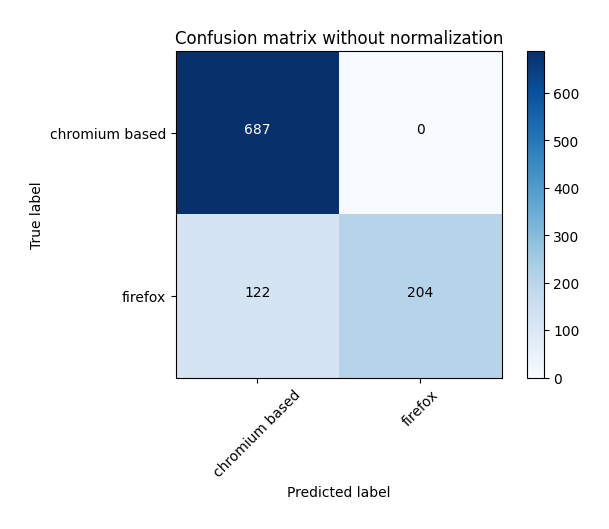
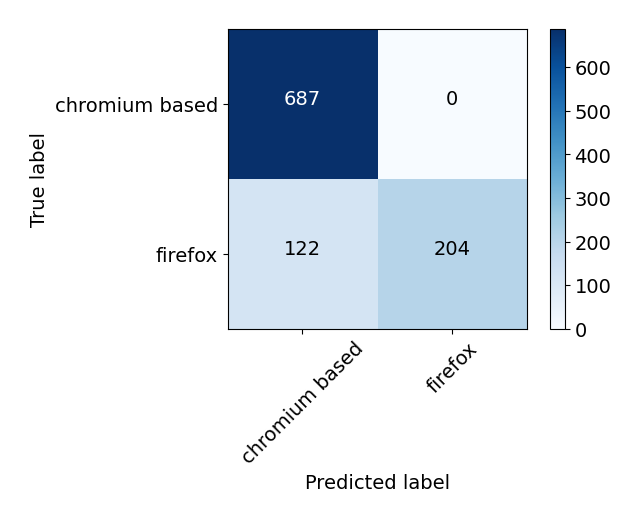
Update Windows 03/06: confusion matrices adapted

diff --git a/dataset/confusion_matrices_ml.py b/dataset/confusion_matrices_ml.py
@@ -1,0 +1,102 @@
+from sklearn.metrics import confusion_matrix
+import itertools
+import matplotlib.pyplot as plt 
+import numpy as np 
+import csv
+
+# increase font size
+plt.rcParams.update({'font.size': 14})
+
+
+def plot_confusion_matrix(cm, classes,
+                          normalize=False,
+                          title='Confusion matrix',
+                          fname='Confusion matrix',
+                          cmap=plt.cm.Blues):
+    """
+    This function prints and plots the confusion matrix.
+    Normalization can be applied by setting `normalize=True`.
+    """
+    if normalize:
+        divisor =  cm.sum(axis=1)[:, np.newaxis]
+        for i in range(len(divisor)):
+            if divisor[i][0] == 0:  # prevent dividing by 0
+                divisor[i][0] = 1
+        cm = cm.astype('float') / divisor 
+        print("Normalized confusion matrix")
+    else:
+        print('Confusion matrix, without normalization')
+
+    print(cm)
+
+    plt.imshow(cm, interpolation='nearest', cmap=cmap)
+    # plt.title(title)
+    plt.colorbar()
+    tick_marks = np.arange(len(classes))
+    plt.xticks(tick_marks, classes, rotation=45)
+    plt.yticks(tick_marks, classes)
+
+    fmt = '.1f' if normalize else 'd'
+    thresh = cm.max() / 2.
+    for i, j in itertools.product(range(cm.shape[0]), range(cm.shape[1])):
+        if normalize:
+            plt.text(j, i, format(cm[i, j]*100, fmt) + '%',
+                 horizontalalignment="center",
+                 color="white" if cm[i, j] > thresh else "black")
+        else:
+            plt.text(j, i, format(cm[i, j], fmt),
+                 horizontalalignment="center",
+                 color="white" if cm[i, j] > thresh else "black")    
+        
+    plt.tight_layout()
+    plt.ylabel('True label')
+    plt.xlabel('Predicted label')
+    plt.savefig(fname, bbox_inches='tight', pad_inches=0.3)
+
+
+# get y_test_true and predictions
+OS_classify = {
+    "windows": 0,
+    "linux": 1,
+    "unknown": 2
+}
+browser_classify = {
+    "chrome": 0,
+    "edge": 1,
+    "chromium": 2,
+    "firefox": 3,
+    "unknown": 4
+}
+browser_translate = {  # make chrome, edge, chromium all point to same value 
+    0: 0,
+    1: 0,
+    2: 0,
+    3: 1
+}
+traffic_classify = {
+    "browsing": 0,
+    "streaming_youtube": 1,
+    "streaming_twitch": 2,
+    "unknown": 3
+}
+class_names_lst = [ ["windows", "linux"], ["chrome", "edge", "firefox"], ["browsing", "youtube", "twitch"] ] 
+class_index = 2
+class_names = class_names_lst[class_index]
+
+# Compute confusion matrix
+cnf_matrix = np.array([[71,1,2], [0,73,0], [2,0,67]])
+np.set_printoptions(precision=2)
+
+# Plot non-normalized confusion matrix
+plt.figure()
+plot_confusion_matrix(cnf_matrix, classes=class_names,
+                      title='Confusion matrix without normalization',
+                      fname='Confusion_matrix_without_normalization')
+
+# Plot normalized confusion matrix
+plt.figure()
+plot_confusion_matrix(cnf_matrix, classes=class_names, normalize=True,
+                      title='Confusion matrix with normalization',
+                      fname='Normalized_confusion_matrix')
+
+plt.show()

diff --git a/dataset/count_deleted_traces.py b/dataset/count_deleted_traces.py
@@ -1,0 +1,75 @@
+import os 
+from app.features_calculator import FeaturesCalculator
+from app.prediction_strategy import predict
+import csv
+import pyshark 
+
+traces_dir = 'C:\\Users\\lenne\\Documents\\Masterproef_offline\\VPN_dataset_splitted' # ["webcrawlers/linux/traces/browsing", "webcrawlers/linux/traces/streaming_quic", "webcrawlers/linux/traces/streaming_http", "webcrawlers/windows/traces/browsing", "webcrawlers/windows/traces/streaming_quic", "webcrawlers/windows/traces/streaming_http"] 
+traces = os.listdir(traces_dir)
+total_dict = {}
+deleted_dict = {}
+remaining_dict = {}
+count = 0
+
+print(f"Total: {len(traces)}")
+
+def add_to_dict(d, operating_system, browser, traffic):
+    if operating_system not in d:
+        d[operating_system] = 1
+    else:
+        d[operating_system] += 1
+    if browser not in d:
+        d[browser] = 1
+    else:
+        d[browser] += 1
+    if traffic not in d:
+        d[traffic] = 1
+    else:
+        d[traffic] += 1
+
+# predict every trace
+for t in traces:
+
+    # keep track of where we are 
+    count += 1
+    if count % 10 == 0:
+        print(f"{count} / {len(traces)}")
+
+    # trace path
+    in_path = os.path.join(traces_dir, t)
+
+    # get classifications 
+    splitted = t.split('-')
+    operating_system = splitted[0]
+    browser = splitted[1]
+    traffic = splitted[2]
+
+    add_to_dict(total_dict, operating_system, browser, traffic)
+
+    try: 
+        # get trace features
+        capture = pyshark.FileCapture(in_path, display_filter="ip.src == 192.168.0.145")  # prediction only considers client --> server
+        features_calc = FeaturesCalculator(capture=capture)
+        packets_per_min, min_size, max_size, mean_size, std_size, unique_sizes, occ_sizes, special_sizes = features_calc.return_features()
+
+        # skip if too few packets 
+        if packets_per_min <= 50:
+            add_to_dict(deleted_dict, operating_system, browser, traffic)
+            print(f"Too few packets, skipping..")
+            continue 
+        
+        add_to_dict(remaining_dict, operating_system, browser, traffic)
+
+    except Exception as e:
+        print(e)
+
+
+print(f"Total: {total_dict}")
+print(f"Deleted: {deleted_dict}")
+print(f"Remaining: {remaining_dict}")
+
+"""
+Total: {'linux': 582, 'chrome': 398, 'browsing': 398, 'streaming_twitch': 349, 'streaming_youtube': 366, 'edge': 366, 'firefox': 349, 'windows': 531}
+Deleted: {'linux': 84, 'chrome': 75, 'browsing': 98, 'streaming_twitch': 1, 'edge': 2, 'firefox': 23, 'streaming_youtube': 1, 'windows': 16}
+Remaining: {'linux': 498, 'chrome': 323, 'browsing': 300, 'streaming_twitch': 348, 'streaming_youtube': 365, 'edge': 364, 'firefox': 326, 'windows': 515}
+"""

diff --git a/dataset/confusion_matrices_manual.py b/dataset/confusion_matrices_manual.py
@@ -4,6 +4,9 @@ import matplotlib.pyplot as plt
 import numpy as np 
 import csv
 
+# increase font size
+plt.rcParams.update({'font.size': 14})
+
 
 def plot_confusion_matrix(cm, classes,
                           normalize=False,
@@ -27,7 +30,7 @@ def plot_confusion_matrix(cm, classes,
     print(cm)
 
     plt.imshow(cm, interpolation='nearest', cmap=cmap)
-    plt.title(title)
+    # plt.title(title)
     plt.colorbar()
     tick_marks = np.arange(len(classes))
     plt.xticks(tick_marks, classes, rotation=45)
@@ -77,7 +80,7 @@ traffic_classify = {
     "unknown": 3
 }
 class_names_lst = [ ["windows", "linux"], ["chromium based", "firefox"], ["browsing", "youtube", "twitch"] ] 
-class_index = 0
+class_index = 2
 class_names = class_names_lst[class_index]
 y_test_true = []
 predictions = []
@@ -94,19 +97,19 @@ with open('CSVs/dataset_splitted_predictions_manual_new_pred_strategy.csv', newl
         #     predictions.append(OS_tuple[1])
 
         # OS with unknown
-        y_test_true.append(OS_tuple[0])
-        predictions.append(OS_tuple[1])
+        # y_test_true.append(OS_tuple[0])
+        # predictions.append(OS_tuple[1])
 
         # browser
         # y_test_true.append(browser_translate[browser_tuple[0]])
         # predictions.append(browser_translate[browser_tuple[1]])
 
         # traffic
-        # y_test_true.append(traffic_tuple[0])
-        # predictions.append(traffic_tuple[1])
+        y_test_true.append(traffic_tuple[0])
+        predictions.append(traffic_tuple[1])
 
 
-class_names += ['unknown']
+#class_names += ['unknown']
 
 # Compute confusion matrix
 cnf_matrix = confusion_matrix(y_test_true, predictions)

diff --git a/app/features_calculator.py b/app/features_calculator.py
@@ -87,7 +87,7 @@ class FeaturesCalculator:
         self.ovpn_data_sizes = []
         self.timestamps = []
         fails = 0
-        for packet in self.capture._packets: # use this extension only for live predictions
+        for packet in self.capture: #._packets: # use this extension only for live predictions
             if not ('OPENVPN' in packet):
                 continue
             try:
